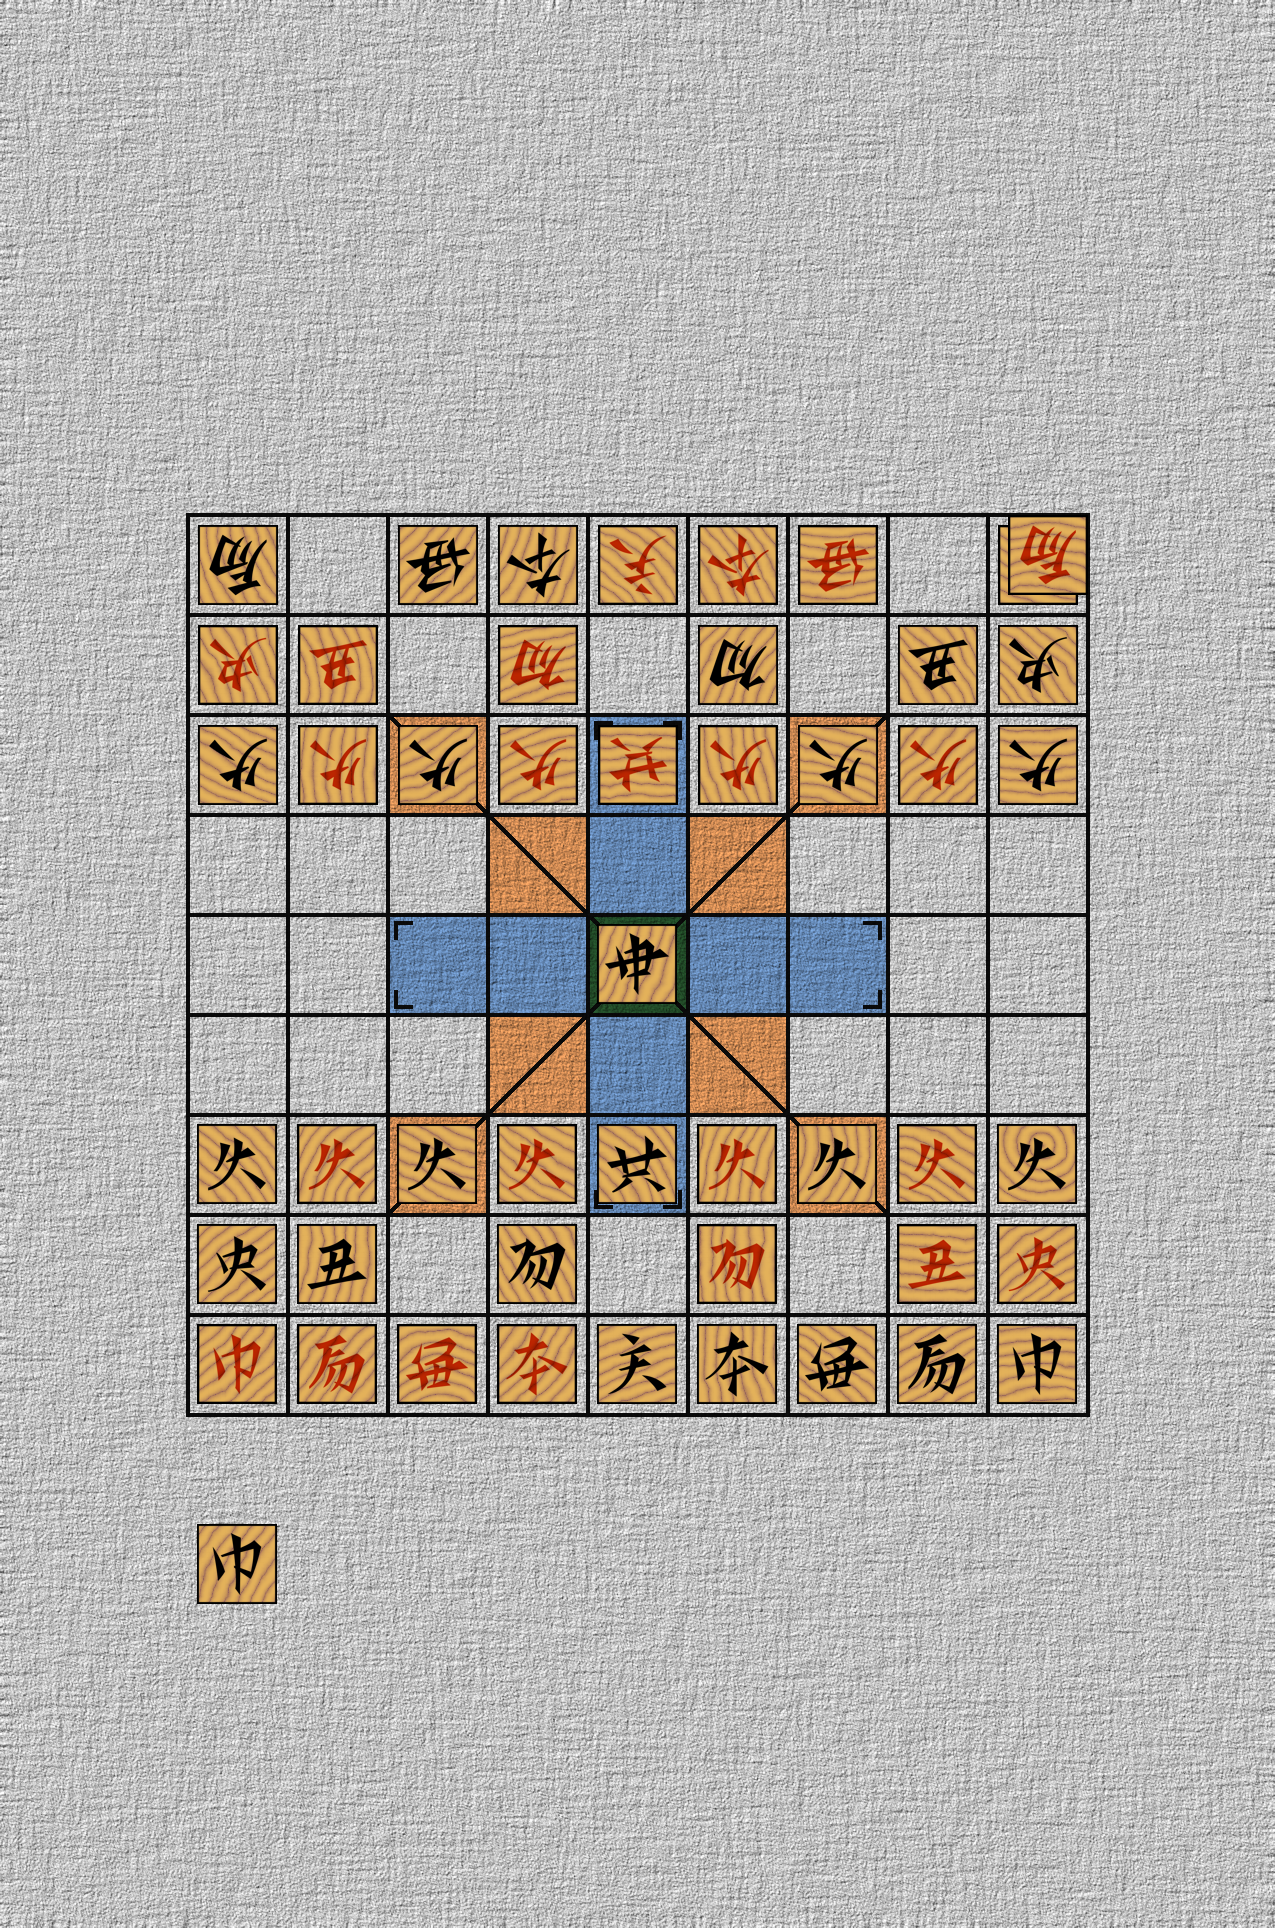
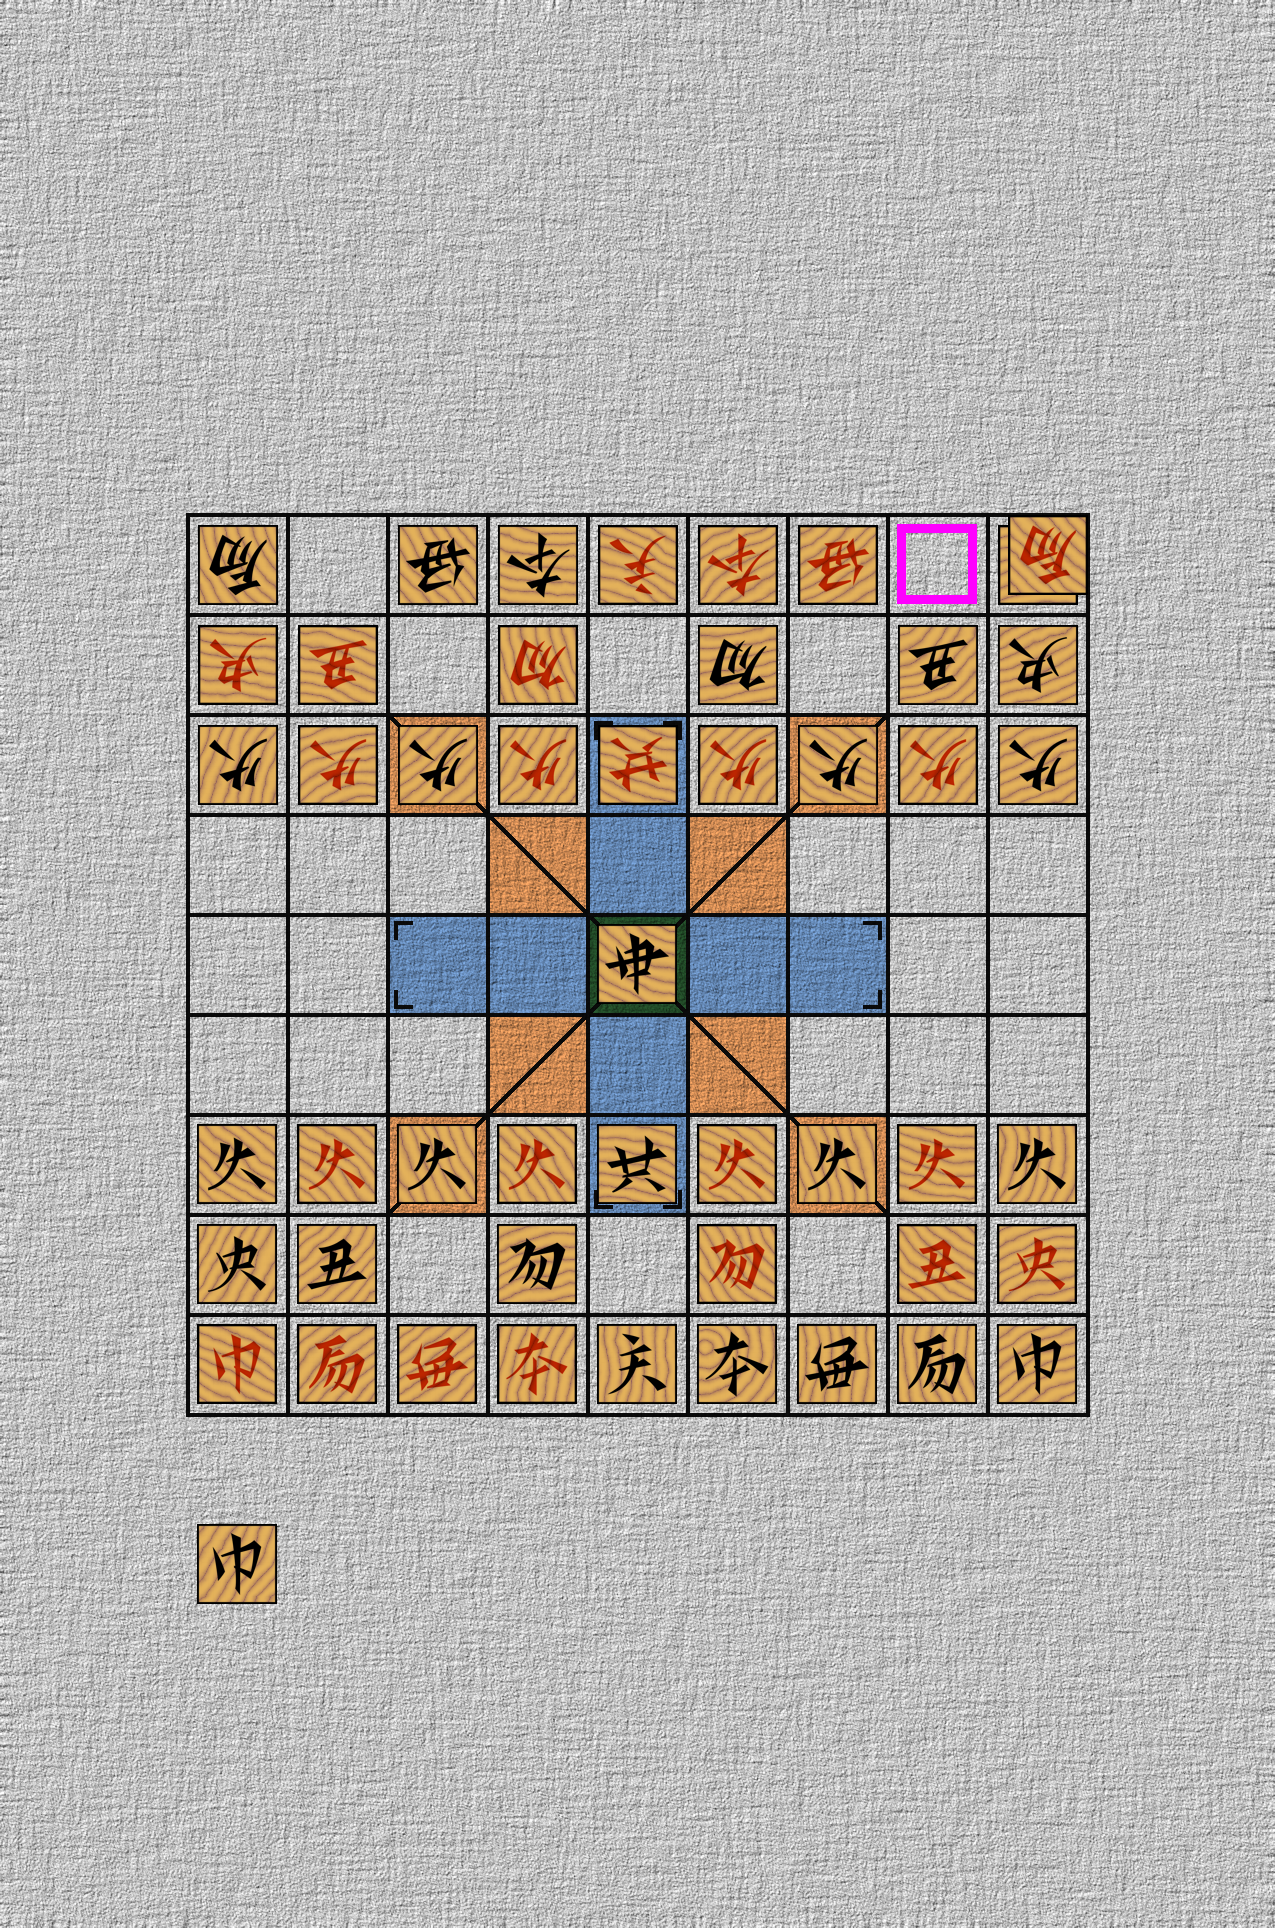
focus (except floating)

diff --git a/src/field/mod.rs b/src/field/mod.rs
@@ -153,6 +153,9 @@ pub struct Field {
     piece_dimension: u32,
     square_dimension: u32,
     floating: Option<(Coord, PieceOnField)>,
+    focus: HashMap<Coord, bool /* whether floating */>,
+    a_side_focus_index: Option<usize>,
+    ia_side_focus_index: Option<usize>,
 }
 
 mod background;
@@ -219,6 +222,21 @@ fn get_vert_offset_from_coord(coord: Coord, down_side: Side) -> i32 {
 }
 
 impl Field {
+    fn put_border_on_sub_image(&self, sub_image: &mut image::SubImage<&mut image::RgbImage>){
+        use crate::image::GenericImage;
+        for x in 0..self.piece_dimension {
+            for y in 0..self.piece_dimension {
+                if x < 9 /* FIXME: not scale invariant */
+                || y < 9
+                || x >= self.piece_dimension - 9
+                || y >= self.piece_dimension - 9
+                {
+                    sub_image.put_pixel(x, y, image::Rgb([255, 0, 255]));
+                }
+            }
+        }
+    }
+
     fn debug_assert_49_piece(&self) {
         debug_assert_eq!(
             self.field.len()
@@ -227,6 +245,12 @@ impl Field {
                 + if self.floating.is_some() { 1 } else { 0 },
             49
         );
+    }
+
+    pub fn delete_focus(&mut self) {
+        self.focus = HashMap::new();
+        self.ia_side_focus_index = None;
+        self.a_side_focus_index = None;
     }
 
     pub fn to_opponent_hop1zuo1(&mut self, coord: Coord) -> Result<(), OperationError> {
@@ -248,8 +272,14 @@ impl Field {
             .ok_or(OperationError::Tam2ToHop1Zuo1)?;
 
         if side == Side::ASide {
+            self.delete_focus();
+            self.focus.insert(coord, false);
+            self.ia_side_focus_index = Some(self.ia_side_hand.len());
             self.ia_side_hand.push(nontam2piece);
         } else {
+            self.delete_focus();
+            self.focus.insert(coord, false);
+            self.a_side_focus_index = Some(self.a_side_hand.len());
             self.a_side_hand.push(nontam2piece);
         }
 
@@ -275,25 +305,34 @@ impl Field {
 
         self.field.insert(to, piece);
 
+        self.delete_focus();
+        self.focus.insert(from, false);
+        self.focus.insert(to, false);
+
         self.debug_assert_49_piece();
         Ok(())
     }
 
     pub fn relocate_stepping(&mut self, to: Coord) -> Result<(), OperationError> {
         self.debug_assert_49_piece();
-        let (_coord, piece) = self
+        let (from, piece) = self
             .floating
             .take()
             .ok_or(OperationError::NoPieceOnFlight)?;
 
         self.floating = Some((to, piece));
+
+        self.delete_focus();
+        self.focus.insert(from, true);
+        self.focus.insert(to, true);
+
         self.debug_assert_49_piece();
         Ok(())
     }
 
     pub fn descend_from_stepping(&mut self, to: Coord) -> Result<(), OperationError> {
         self.debug_assert_49_piece();
-        let (_coord, piece) = self
+        let (from, piece) = self
             .floating
             .take()
             .ok_or(OperationError::NoPieceOnFlight)?;
@@ -303,6 +342,10 @@ impl Field {
         }
 
         self.field.insert(to, piece);
+
+        self.delete_focus();
+        self.focus.insert(from, true);
+        self.focus.insert(to, false);
 
         self.debug_assert_49_piece();
         Ok(())
@@ -330,6 +373,10 @@ impl Field {
 
         self.floating = Some((to, piece));
 
+        self.delete_focus();
+        self.focus.insert(from, false);
+        self.focus.insert(to, true);
+
         self.debug_assert_49_piece();
         Ok(())
     }
@@ -344,15 +391,15 @@ impl Field {
         let (width, height) = background.dimensions();
 
         {
-            let mut i = 0;
+            let mut i: usize = 0;
             for p in &self.a_side_hand {
-                let vert_offset = (6 + (i / 9))
+                let vert_offset = (6 + (i / 9)) as i32
                     * (match down_side {
                         Side::IASide => -1,
                         Side::ASide => 1,
                     });
 
-                let horiz_offset = (i % 9 - 4)
+                let horiz_offset = (i % 9 - 4) as i32
                     * (match down_side {
                         Side::IASide => -1,
                         Side::ASide => 1,
@@ -381,21 +428,54 @@ impl Field {
                         },
                         *pixel,
                     );
+                }
+
+                if Some(i) == self.a_side_focus_index {
+                    self.put_border_on_sub_image(&mut sub_image);
                 }
 
                 i += 1;
             }
+
+            /* when placed from hop1 zuo1, the focus_index should be out of bound */
+            {
+                let vert_offset = (6 + (i / 9)) as i32
+                    * (match down_side {
+                        Side::IASide => -1,
+                        Side::ASide => 1,
+                    });
+
+                let horiz_offset = (i % 9 - 4) as i32
+                    * (match down_side {
+                        Side::IASide => -1,
+                        Side::ASide => 1,
+                    });
+
+                let mut sub_image = background.sub_image(
+                    ((width / 2 - self.piece_dimension / 2) as i32
+                        + self.square_dimension as i32 * horiz_offset) as u32,
+                    ((height / 2 - self.piece_dimension / 2) as i32
+                        + self.square_dimension as i32 * vert_offset) as u32,
+                    self.piece_dimension,
+                    self.piece_dimension,
+                );
+
+                if Some(i) == self.a_side_focus_index {
+                    self.put_border_on_sub_image(&mut sub_image);
+                }
+            }
         }
+
         {
-            let mut i = 0;
+            let mut i: usize = 0;
             for p in &self.ia_side_hand {
-                let vert_offset = (6 + (i / 9))
+                let vert_offset = (6 + (i / 9)) as i32
                     * (match down_side {
                         Side::IASide => 1,
                         Side::ASide => -1,
                     });
 
-                let horiz_offset = (i % 9 - 4)
+                let horiz_offset = (i % 9 - 4) as i32
                     * (match down_side {
                         Side::IASide => 1,
                         Side::ASide => -1,
@@ -426,7 +506,39 @@ impl Field {
                     );
                 }
 
+                if Some(i) == self.ia_side_focus_index {
+                    self.put_border_on_sub_image(&mut sub_image);
+                }
+
                 i += 1;
+            }
+
+            /* when placed from hop1 zuo1, the focus_index should be out of bound */
+            {
+                let vert_offset = (6 + (i / 9)) as i32
+                    * (match down_side {
+                        Side::IASide => 1,
+                        Side::ASide => -1,
+                    });
+
+                let horiz_offset = (i % 9 - 4) as i32
+                    * (match down_side {
+                        Side::IASide => 1,
+                        Side::ASide => -1,
+                    });
+
+                let mut sub_image = background.sub_image(
+                    ((width / 2 - self.piece_dimension / 2) as i32
+                        + self.square_dimension as i32 * horiz_offset) as u32,
+                    ((height / 2 - self.piece_dimension / 2) as i32
+                        + self.square_dimension as i32 * vert_offset) as u32,
+                    self.piece_dimension,
+                    self.piece_dimension,
+                );
+
+                if Some(i) == self.ia_side_focus_index {
+                    self.put_border_on_sub_image(&mut sub_image);
+                }
             }
         }
 
@@ -459,6 +571,24 @@ impl Field {
                 );
             }
         }
+
+        for (row, col) in self.focus.keys() {
+            let horiz_offset = get_horiz_offset_from_coord((*row, *col), down_side);
+            let vert_offset = get_vert_offset_from_coord((*row, *col), down_side);
+            let mut sub_image = background.sub_image(
+                ((width / 2 - self.piece_dimension / 2) as i32
+                    + self.square_dimension as i32 * horiz_offset) as u32,
+                ((height / 2 - self.piece_dimension / 2) as i32
+                    + self.square_dimension as i32 * vert_offset) as u32,
+                self.piece_dimension,
+                self.piece_dimension,
+            );
+            if !self.focus[&(*row, *col)] /* not floating */ {
+                self.put_border_on_sub_image(&mut sub_image);
+            }
+        }
+
+        
 
         if let Some(((row, col), piece)) = &self.floating {
             let horiz_offset = get_horiz_offset_from_coord((*row, *col), down_side);
@@ -633,6 +763,9 @@ impl Field {
             piece_dimension,
             square_dimension: (piece_dimension as f32 * 1.25) as u32,
             floating: None,
+            focus: HashMap::new(),
+            a_side_focus_index: None,
+            ia_side_focus_index: None,
         };
 
         board

diff --git a/src/main.rs b/src/main.rs
@@ -28,9 +28,7 @@ fn main() -> Result<(), rand_distr::NormalError> {
     field.render(field::Side::IASide).save("a4.png").unwrap();
     field.render(field::Side::ASide).save("b4.png").unwrap();
 
-    field
-        .relocate_stepping((Row::O, Column::Z))
-        .unwrap();
+    field.relocate_stepping((Row::O, Column::Z)).unwrap();
 
     field.render(field::Side::IASide).save("a5.png").unwrap();
     field.render(field::Side::ASide).save("b5.png").unwrap();
